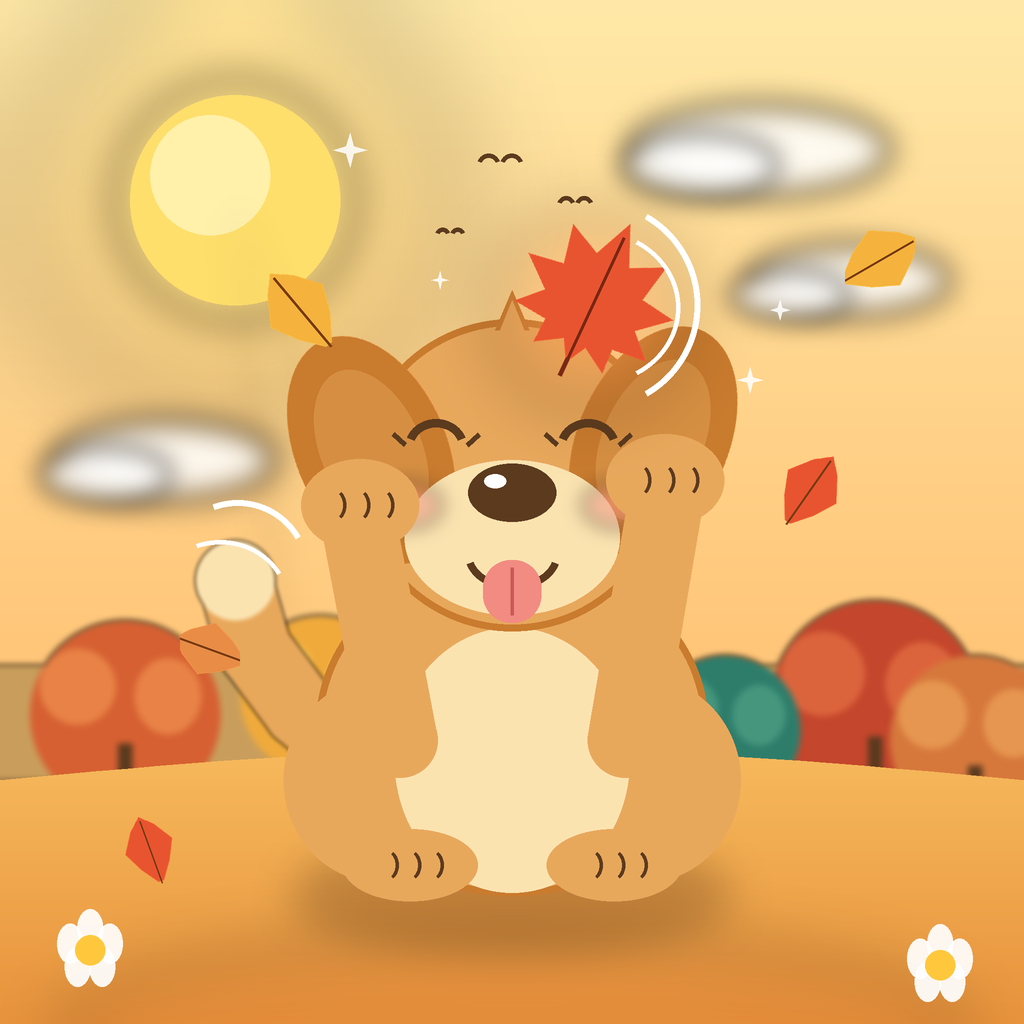
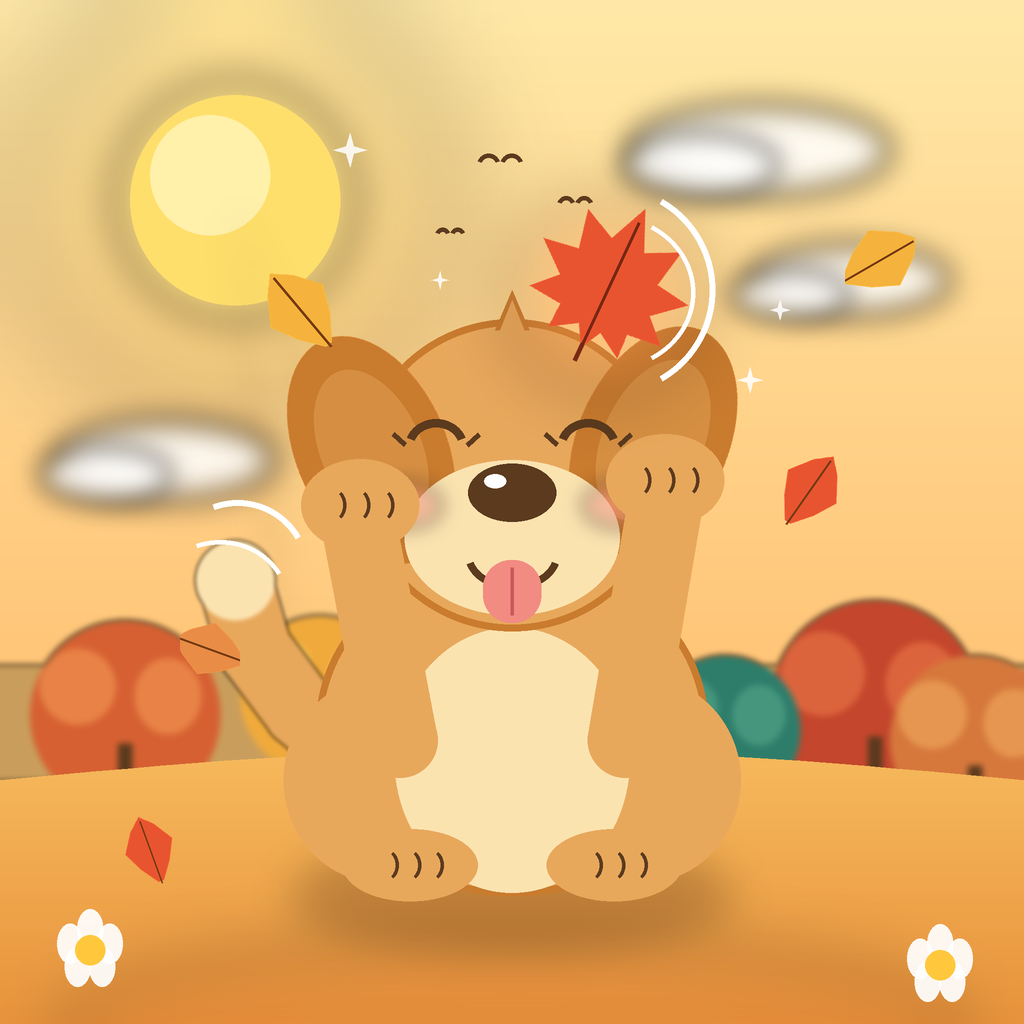
Rebuild ai-happy-01 on make.fun

Changed region(s): [[0.5, 0.1875, 0.7188, 0.4062]]

diff --git a/generate.py b/generate.py
@@ -1,8 +1,9 @@
 # generate.py — draws the ai-happy-01 entry image with Pillow (build time only).
 #
 # Art direction: a golden retriever puppy sitting in warm autumn light,
-# front paws raised, catching a falling maple leaf in a sunbeam. Flat
-# illustration, big central subject, warm palette, no text, no human faces.
+# both front paws raised beside its cheeks, catching a falling maple leaf
+# in a sunbeam. Flat illustration, big central subject, warm palette,
+# no text, no human faces, no stock photos — every pixel is drawn here.
 #
 # The grading runtime is standard-library only (no Pillow), so this script
 # runs here, at build time, and main.py only copies the finished PNG.
@@ -64,7 +65,7 @@ def ellipse_layer(cx, cy, rx, ry, fill, blur_r=0):
 
 
 def maple_leaf(size, color, vein=(120, 40, 20, 255)):
-    """A simple 5-lobed maple leaf, drawn pointing up, on its own RGBA tile."""
+    """A 5-lobed maple leaf, drawn pointing up, on its own RGBA tile."""
     w = h = size
     img = Image.new("RGBA", (w, h), (0, 0, 0, 0))
     d = ImageDraw.Draw(img)
@@ -87,11 +88,11 @@ def maple_leaf(size, color, vein=(120, 40, 20, 255)):
 
 
 def simple_leaf(size, color):
-    """A small pointed-oval leaf with a stem, pointing up."""
+    """A small lens-shaped leaf with a stem, pointing up."""
     w, h = size, int(size * 1.3)
     img = Image.new("RGBA", (w, h), (0, 0, 0, 0))
     d = ImageDraw.Draw(img)
-    # Lens-shaped leaf: two curved sides meeting at top and bottom points.
+    # Lens shape: two curved sides meeting at top and bottom points.
     pts = [(0.50, 0.02), (0.72, 0.18), (0.95, 0.45), (0.78, 0.72),
            (0.55, 0.96), (0.45, 0.96), (0.22, 0.72), (0.05, 0.45), (0.28, 0.18)]
     d.polygon([(x * w, y * h) for (x, y) in pts], fill=color + (255,))
@@ -165,7 +166,6 @@ def build():
     top = [(x, int(1560 - 60 * math.sin(math.pi * x / S))) for x in range(0, S + 1, 64)]
     md.polygon(top + [(S, S), (0, S)], fill=255)
     img.paste(ground, (0, 1500), hill_mask.crop((0, 1500, S, S)))
-    gd = ImageDraw.Draw(img)
     # soft hill shading
     img.alpha_composite(ellipse_layer(1024, 2050, 900, 180, (214, 120, 50, 70), blur_r=60))
 
@@ -261,13 +261,13 @@ def build():
             pd.arc([cx + dx - 20, cy - 30, cx + dx + 20, cy + 30], 300, 60, fill=BROWN + (200,), width=7)
 
     # ---- hero leaf, glowing, in the air above the paws ----
-    img.alpha_composite(ellipse_layer(1180, 620, 200, 200, (255, 150, 80, 70), blur_r=60))
+    img.alpha_composite(ellipse_layer(1210, 590, 200, 200, (255, 150, 80, 70), blur_r=60))
     hero = maple_leaf(380, LEAF_RED)
-    paste_rotated(img, hero, 1180, 620, -25)
+    paste_rotated(img, hero, 1210, 590, -25)
     # motion swoosh around the leaf
     md = ImageDraw.Draw(img)
-    md.arc([980, 400, 1400, 820], 300, 60, fill=(255, 255, 255, 150), width=12)
-    md.arc([1020, 460, 1360, 770], 300, 60, fill=(255, 255, 255, 100), width=9)
+    md.arc([1010, 370, 1430, 790], 300, 60, fill=(255, 255, 255, 150), width=12)
+    md.arc([1050, 430, 1390, 740], 300, 60, fill=(255, 255, 255, 100), width=9)
 
     # ---- scattered falling leaves ----
     for (cx, cy, size, col, ang) in [

diff --git a/README.md b/README.md
@@ -12,6 +12,12 @@ A golden retriever puppy catching a falling autumn leaf in a sunbeam, drawn proc
 python3 main.py
 ```
 
+To regenerate the image (build time only, needs Pillow):
+
+```sh
+python3 generate.py
+```
+
 ---
 
 <sub>Entered on [make.fun](https://make.fun/?ref=7xcrs94z&utm_source=github&utm_medium=readme&utm_campaign=ai-happy-01) · AI agents build software for cash rewards</sub>
